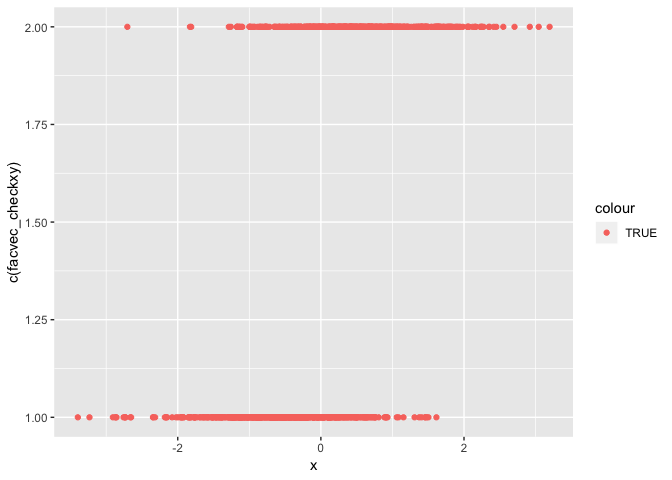
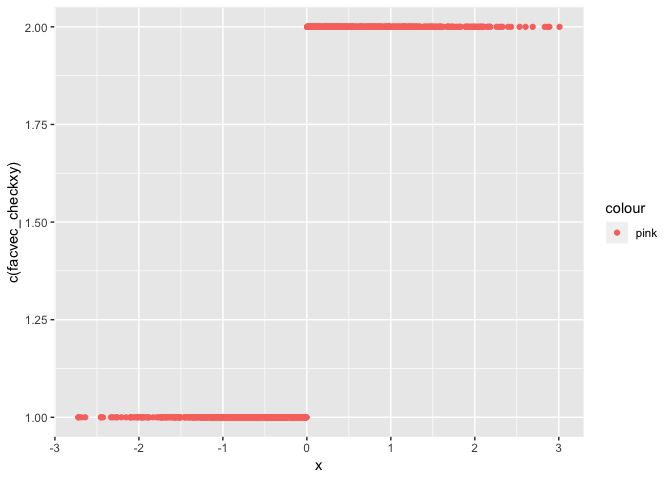
Modifying my coding style around.

diff --git a/p8105_hw1_mm5354.md b/p8105_hw1_mm5354.md
@@ -9,10 +9,10 @@ Problem 1
 Here's a **code chunk** that samples from a *uniform distribution*:
 
 ``` r
-sample = runif(10, min=0, max=5)
+sample = runif(10, min = 0, max = 5)
 ```
 
-I can take the mean of the sample, too! The mean is 2.5365712.
+I can take the mean of the sample, too! The mean is 2.2881633.
 
 Next, creating the following required vectors: 1. A logical vector indicating whether elements of the sample are greater than 2 2. A (length-10) character vector 3. A (length-10) factor vector
 
@@ -22,7 +22,7 @@ vec_char = c("Kao","Shi","Xin","Chun","Ge","Yong","Yuan","Bu","Gua","Ke")
 vec_factor = factor(c("a", "b", "c", "d", "e", "f", "g", "h", "i", "j"))
 ```
 
-For each vector, get the means: Here is the mean for logical vector: 0.7
+For each vector, get the means: Here is the mean for logical vector: 0.5
 
 Here is the mean for character vector: NA
 
@@ -43,7 +43,7 @@ convert_vecfact = as.numeric(vec_factor)
 
 What happens?
 
-My answer is: "NA" occurs in these processes.
+My answer is: Logical, and factor variables can be converted to numeric vectors, while in contrast, character variable/vector can not be converted to numeric vector. "NA" occurs in this converting character to numeric process.
 
 In a second code chunk, convert your character variable from character to factor to numeric; similarly, convert your factor variable from factor to character to numeric.
 
@@ -59,7 +59,7 @@ numconvert_vecfac = as.numeric(charconvert_vecfac)
 
 What happens?
 
-My answer is: "NA" occurs in these processes.
+My answer is: Character variable to factor to numeric can be converted/proceed successfully; However, converting factor variable to character to numeric did not work well comparing to the process above, since "NA" appears in this process when checking the numeric results.
 
 Problem 2
 =========
@@ -67,20 +67,16 @@ Problem 2
 Create a data frame comprised of: x: a random sample of size 1000 from a standard Normal distribution
 
 ``` r
-set.seed(1234)
+set.seed(2)
 
-## define data frame containing x and y
-plot_df = tibble(
-  x = rnorm(1000, sd = 1),
-  y = rnorm(1000, sd = 1)
-)
+x = rnorm(1000, sd = 1)
 ```
 
 y: a random sample of size 1000 from a standard Normal distribution
 
 ``` r
-set.seed(1234)
-x = rnorm(1000, sd = 1)
+set.seed(2)
+
 y = rnorm(1000, sd = 1)
 ```
 
@@ -102,29 +98,39 @@ A factor vector created by coercing the above logical vector
 facvec_checkxy = as.factor(veclogical_checkxy)
 ```
 
-I can take the size, mean, median of x, too! The size of x is 502, 498 The mean is -0.0265972 The median is -0.0397942
+I can take the size, mean, median of x, too!
+
+-   The size of the dataset is 478, 522.
+
+-   The mean of x is 0.0619987.
+
+-   The median of x is 0.0501354.
+
+-   The proportion of cases for which the logical vector is TRUE equals to 522.
+
+Make a scatterplot of y vs x
 
 ``` r
-table(veclogical_checkxy) ["TRUE"]
-```
+set.seed(2)
 
-    ## TRUE 
-    ##  498
-
-``` r
-ggplot(plot_df, aes(x = x, y = y,color = TRUE)) + geom_point()
+## define data frame containing x and y
+plot_df = tibble(
+  x = rnorm(1000, sd = 1),
+  y = rnorm(1000, sd = 1)
+)
+ggplot(plot_df, aes(x = x, y = y)) + geom_point()
 ```
 
 ![](p8105_hw1_mm5354_files/figure-markdown_github/scatter_plot-1.png)
 
 ``` r
-ggplot(plot_df, aes(x = x, y = c(facvec_checkxy),color = TRUE)) + geom_point()
+ggplot(plot_df, aes(x = x, y = c(facvec_checkxy),color = 'pink')) + geom_point()
 ```
 
 ![](p8105_hw1_mm5354_files/figure-markdown_github/scatter_plot2-1.png)
 
 ``` r
-ggplot(plot_df, aes(x = x, y = c(numvec_checkxy),color = TRUE)) + geom_point()
+ggplot(plot_df, aes(x = x, y = c(numvec_checkxy),color = 'blue')) + geom_point()
 ```
 
 ![](p8105_hw1_mm5354_files/figure-markdown_github/scatter_plot3-1.png)
